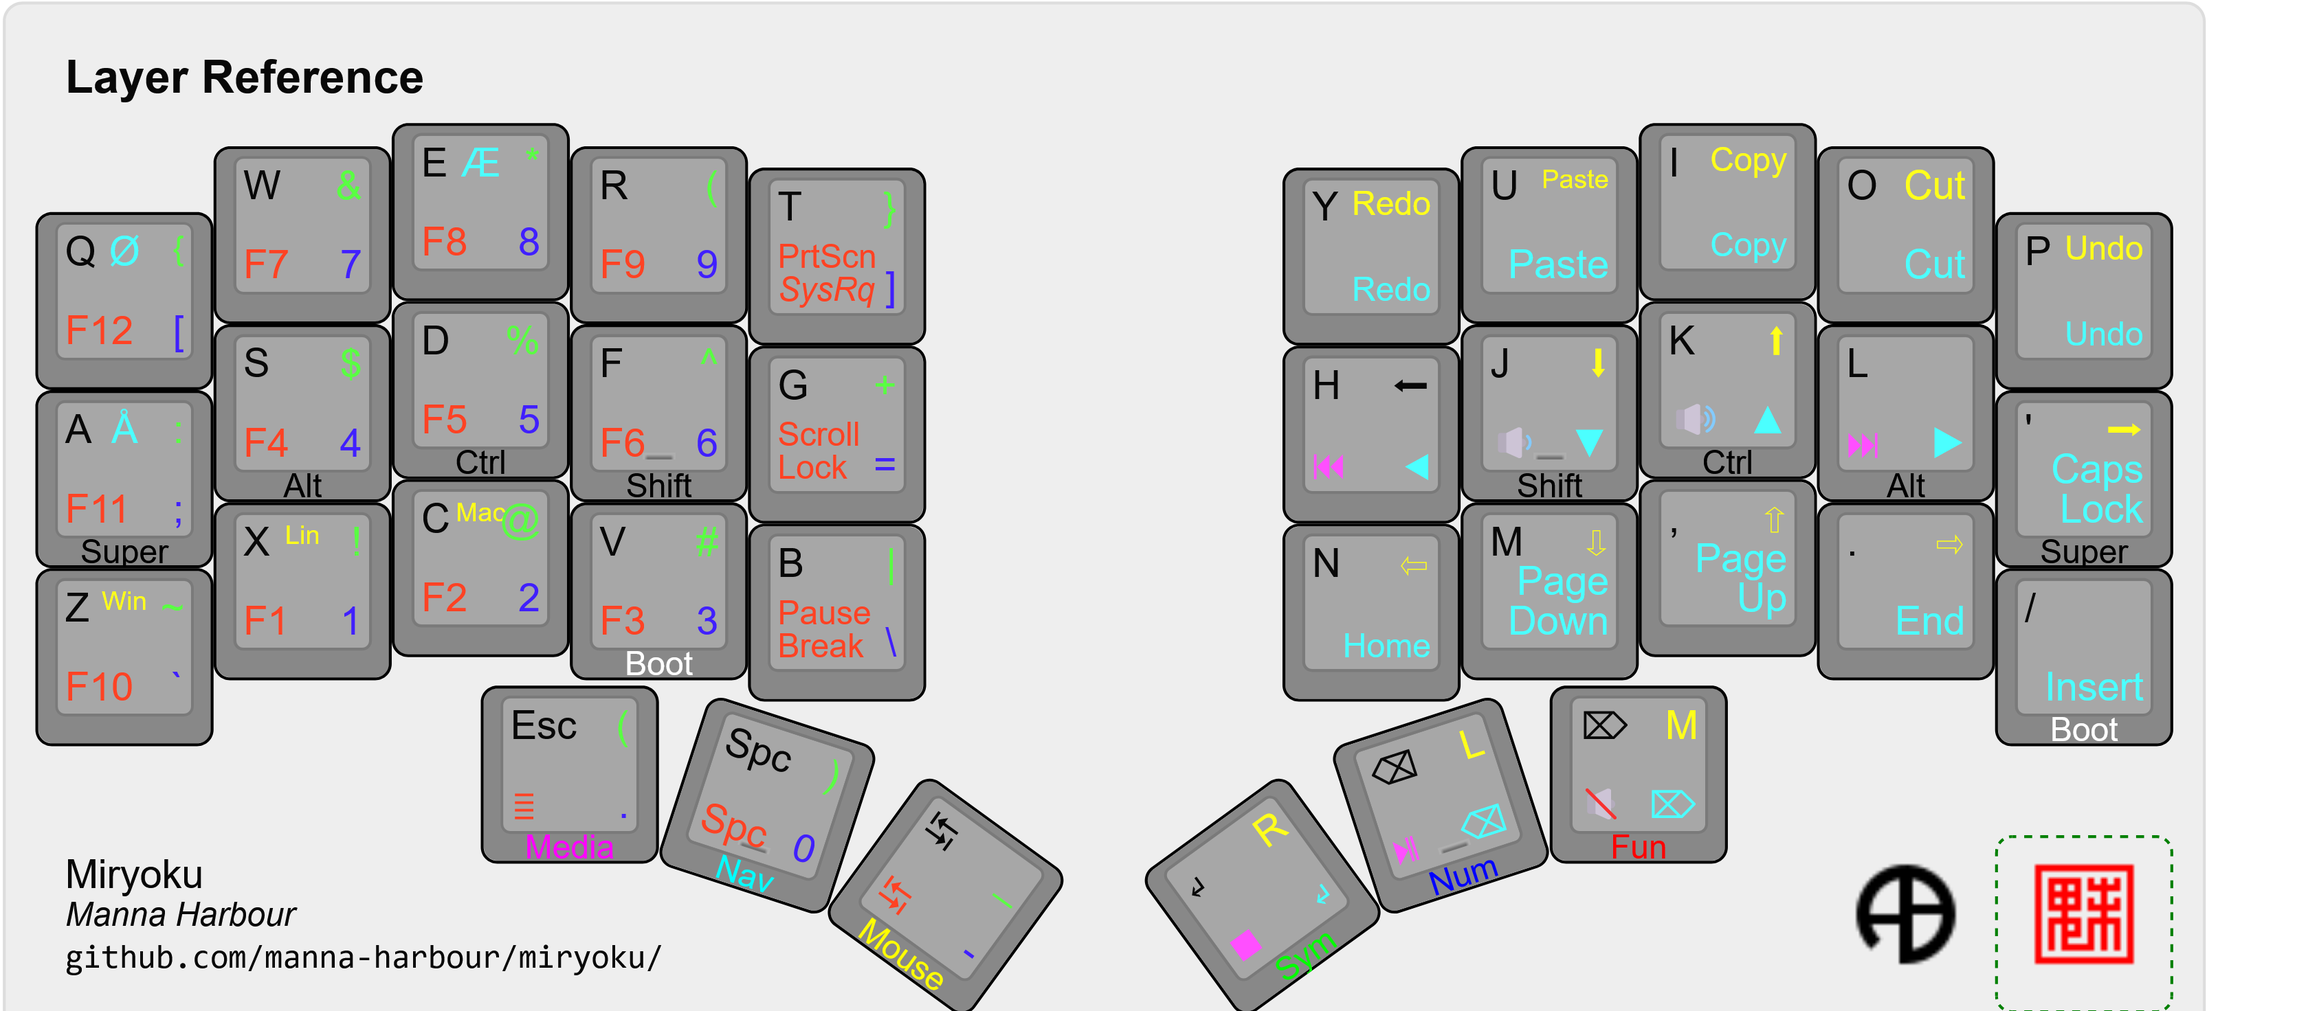
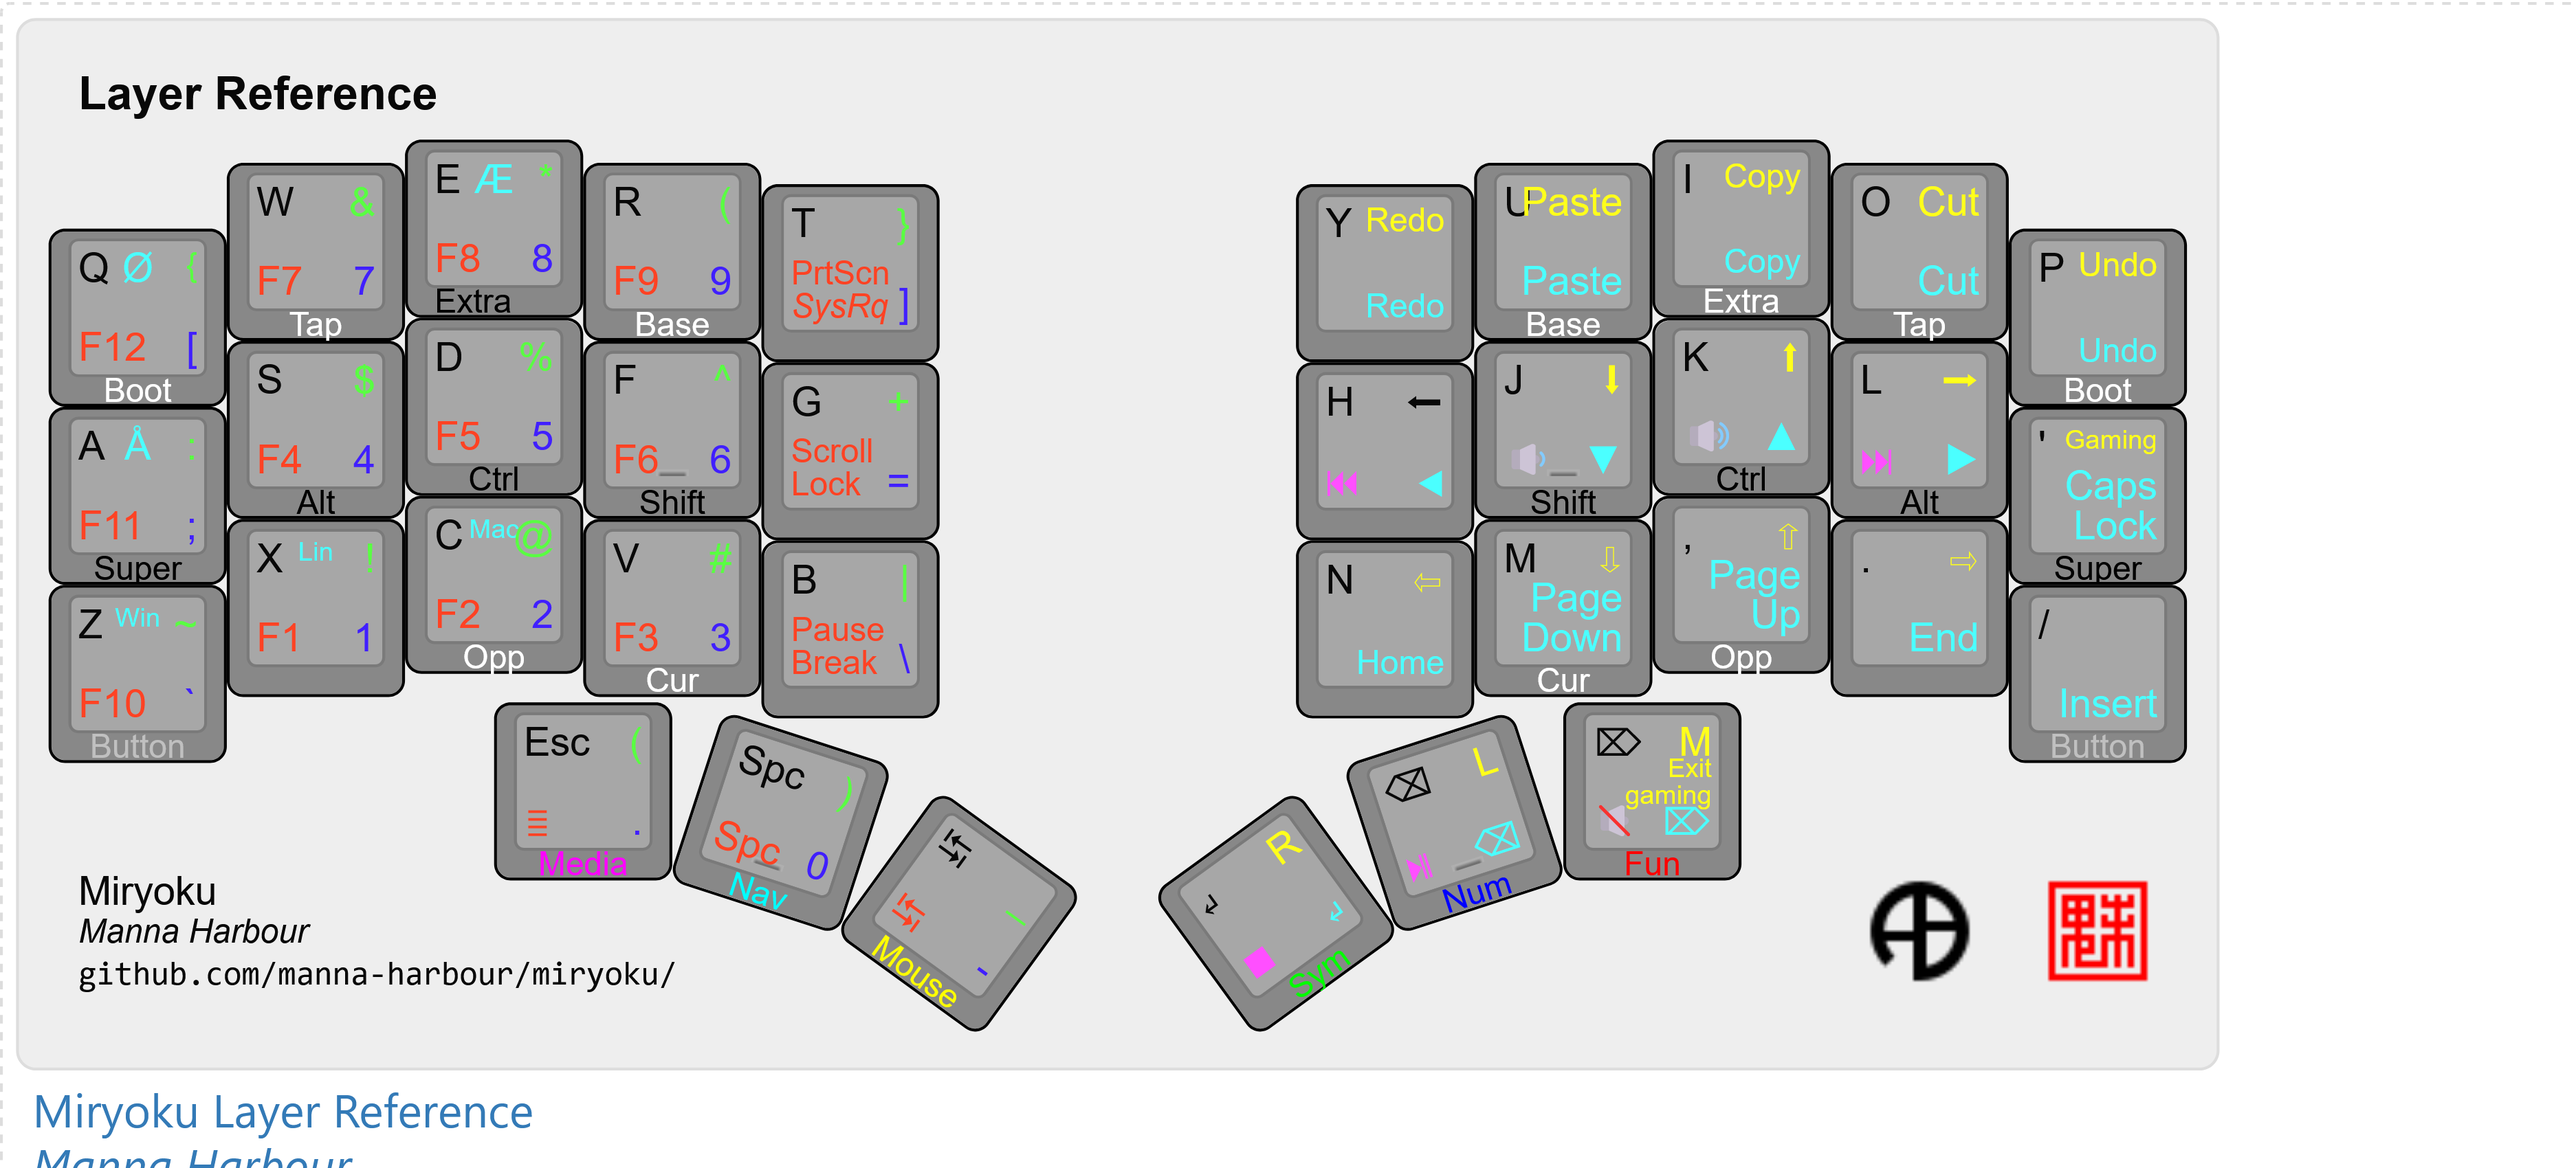
made gaming la

diff --git a/users/manna-harbour_miryoku/miryoku_babel/miryoku_layer_alternatives.h b/users/manna-harbour_miryoku/miryoku_babel/miryoku_layer_alternatives.h
@@ -256,11 +256,12 @@ KC_A,              KC_S,              KC_H,              KC_T,              KC_G
 KC_Z,              KC_X,              KC_M,              KC_C,              KC_V,              KC_K,              KC_L,              KC_COMM,           KC_DOT,            KC_SLSH,           \
 U_NP,              U_NP,              KC_ESC,            KC_SPC,            KC_TAB,            KC_ENT,            KC_BSPC,           KC_DEL,            U_NP,              U_NP
 
+// this will be the gaming layer 
 #define MIRYOKU_ALTERNATIVES_TAP_QWERTY \
-KC_Q,              KC_W,              KC_E,              KC_R,              KC_T,              KC_Y,              KC_U,              KC_I,              KC_O,              KC_P,              \
-KC_A,              KC_S,              KC_D,              KC_F,              KC_G,              KC_H,              KC_J,              KC_K,              KC_L,              KC_QUOT,           \
-KC_Z,              KC_X,              KC_C,              KC_V,              KC_B,              KC_N,              KC_M,              KC_COMM,           KC_DOT,            KC_SLSH,           \
-U_NP,              U_NP,              KC_ESC,            KC_SPC,            KC_TAB,            KC_ENT,            KC_BSPC,           KC_DEL,            U_NP,              U_NP
+KC_TAB,            KC_Q,              KC_W,              KC_E,              KC_R,     /**/     KC_Y,              KC_U,              KC_I,              KC_O,              KC_P,              \
+KC_LCTL,           KC_A,              KC_S,              KC_D,              KC_F,     /**/     KC_H,              KC_J,              KC_K,              KC_L,              KC_QUOT,           \
+KC_LSFT,           KC_Z,              KC_X,              KC_C,              KC_V,     /**/     KC_N,              KC_M,              KC_COMM,           KC_DOT,            KC_SLSH,           \
+U_NP,              U_NP,              KC_ESC,            KC_SPC,            KC_LALT,  /**/     KC_ENT,            KC_BSPC,           DF(U_BASE),        U_NP,              U_NP
 
 #define MIRYOKU_ALTERNATIVES_TAP_QWERTZ \
 KC_Q,              KC_W,              KC_E,              KC_R,              KC_T,              KC_Z,              KC_U,              KC_I,              KC_O,              KC_P,              \
@@ -322,7 +323,7 @@ U_NP,              U_NP,              U_NA,              U_NA,              U_NA
 // this is used
 #define MIRYOKU_ALTERNATIVES_MOUSE_VI \
 U_NA,              U_NA,              U_NA,              U_NA,              U_NA,              U_RDO,             U_PST,             U_CPY,             U_CUT,             U_UND,             \
-KC_LGUI,           KC_LALT,           KC_LCTL,           KC_LSFT,           U_NA,              KC_MS_L,           KC_MS_D,           KC_MS_U,           KC_MS_R,           U_NU,              \
+KC_LGUI,           KC_LALT,           KC_LCTL,           KC_LSFT,           U_NA,              KC_MS_L,           KC_MS_D,           KC_MS_U,           KC_MS_R,           DF(U_TAP),              \
 UC_M_WC,           UC_M_LN,           UC_M_MA,           QK_BOOT,           U_NA,              KC_WH_L,           KC_WH_D,           KC_WH_U,           KC_WH_R,           U_NU,              \
 U_NP,              U_NP,              U_NA,              U_NA,              U_NA,              KC_BTN2,           KC_BTN1,           KC_BTN3,           U_NP,              U_NP
 
